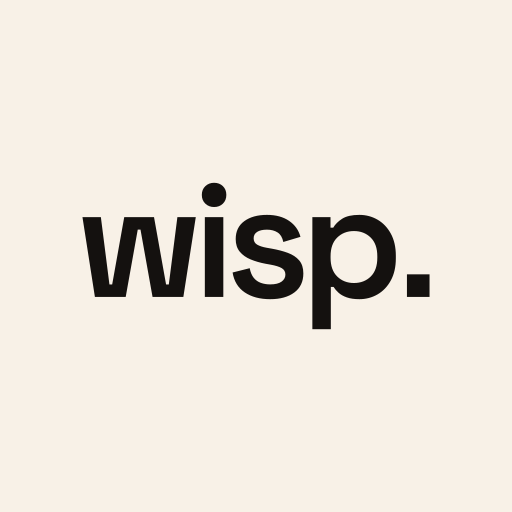
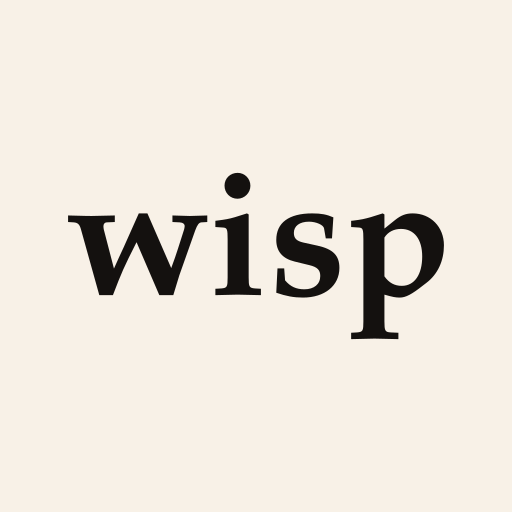
feat(brand): switch wordmark to site serif

Changed region(s): [[0.125, 0.3125, 0.875, 0.6875]]

diff --git a/CHANGELOG.md b/CHANGELOG.md
@@ -2,6 +2,10 @@
 
 ## [Unreleased]
 
+### 品牌
+
+- **字标**：改为与站点标题一致的衬线 `wisp`（Palatino / P052），去掉几何无衬线字标与句点；favicon 改为衬线 `w` 字母标，PWA 图标、OG 图与 README 同步重制
+
 ### 文档
 
 - **README**：重排为「品牌字标 → 双主题界面预览 → 差异化 → 功能矩阵 → 快速开始」；hero 同时展示桌面浏览器与两台手机，浅色 / 深色自动切换；去掉多余单屏截图；Docker 一键启动改用命名卷并已实测；配置、API、开发与文档入口精简

diff --git a/README.md b/README.md
@@ -2,7 +2,7 @@
 
 <picture>
   <source media="(prefers-color-scheme: dark)" srcset="docs/assets/wordmark-white.svg">
-  <img src="docs/assets/wordmark.svg" width="210" alt="wisp">
+  <img src="docs/assets/wordmark.svg" width="190" alt="wisp">
 </picture>
 
 **记录生活中的小确幸。**
